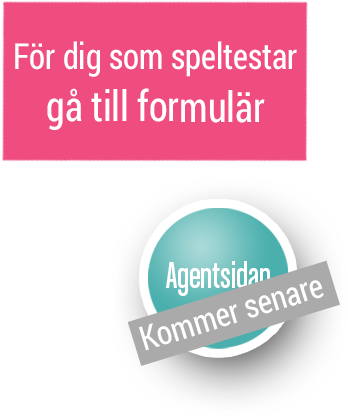
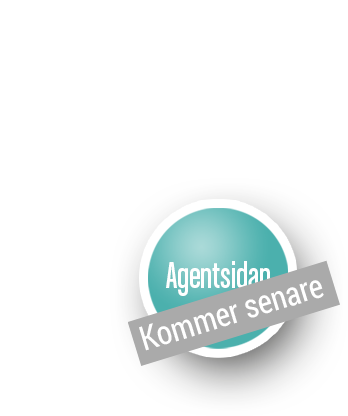
Insåg att jag inte kan ha länken till formuläret med på den version som vi visar idag, har tagit bort det temporärt (lägger tillbaka sen)

diff --git a/outro.html b/outro.html
@@ -42,7 +42,7 @@ a:hover, a:active, a:focus {
 
 .content {
 	padding: 10px 0;
-	margin:-400px;
+	margin: -400px;
 }
 
 .header{font-weight:bold; font-size:30px;}
@@ -64,7 +64,7 @@ p{text-align:center}
 <body>
 <div class="container">
   <div class="content">
-  <a href="https://docs.google.com/forms/d/1FVctSdf-g8DSNX4tsQ3PrI-_lPX5PKW4vygvWYq927E/viewform"><img class="side" src="img/3/sida.png" height="400">	</a>
+<!--<a href="https://docs.google.com/forms/d/1FVctSdf-g8DSNX4tsQ3PrI-_lPX5PKW4vygvWYq927E/viewform">--><img class="side" src="img/3/sida.png" height="400"><!--</a>-->
   <div class="main">
   	<p><img class="headerImage" src="img/1/head.png"></p>
   	<p class="header">Tack för att du spelade</p>
